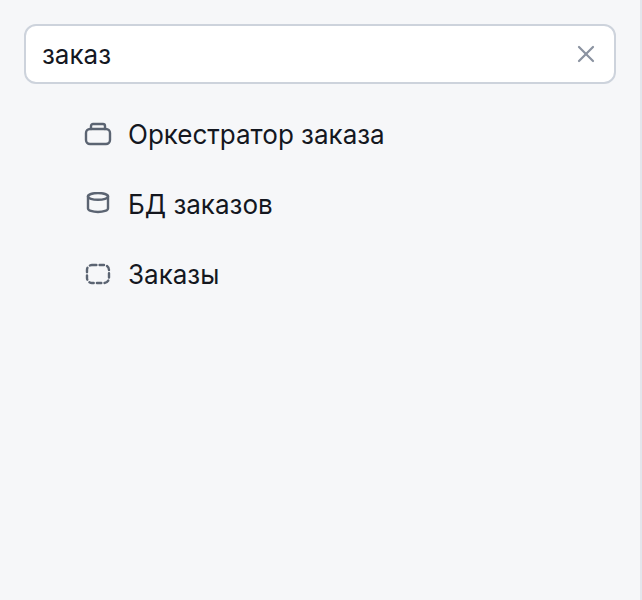
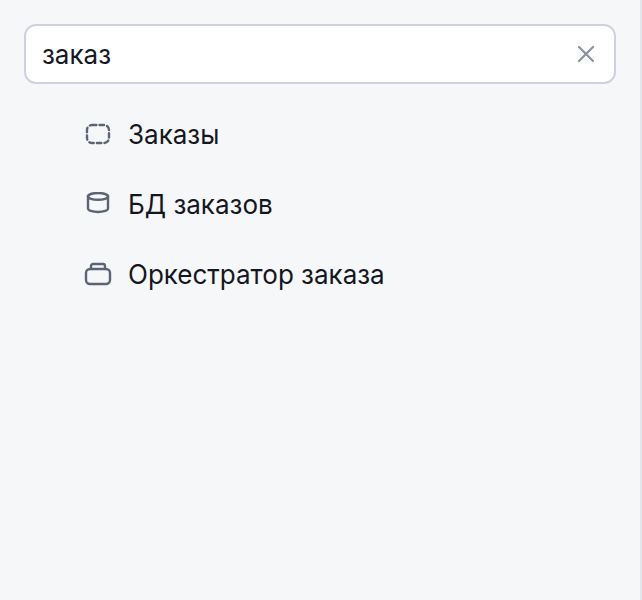
docs: перераскладка с отменой, расстановка читателя, новое задание CI и возврат заменённого процесса
Тексты и снимки под починки продукта 2026-11-24:
- admin/ci.md: задание GitLab пишет ответ ArchMap в журнал и при отказе; workflow GitHub
  срабатывает на основную ветку с любым именем; в команду curl подставляют и ветку;
- architect/layout.md, architect/deployment.md: «Переразложить уровень» срабатывает сразу и
  отменяется Ctrl+Z;
- architect/processes.md, architect/versions.md: прежний вариант заменённого процесса
  возвращают его текстом из окна «Версии»;
- user/find-project.md: читатель переставляет объекты и переразлагает схему на время
  просмотра;
- пересняты девять снимков: окно «Токен выпущен» (перенос по словам), поиск по дереву
  (новый порядок находок), схемы под читателем (кнопки отмены и перераскладки).

Changed region(s): [[0.1246, 0.42, 0.6231, 0.48], [0.1246, 0.21, 0.6231, 0.24]]

diff --git a/content/admin/ci.md b/content/admin/ci.md
@@ -31,8 +31,8 @@ order: 9
 1. В настройках CI репозитория создайте секретную переменную `ARCHMAP_TOKEN` и вставьте в неё токен.
 2. В окне **Токен выпущен** в разделе **Сигнал из CI после слияния в main** выберите вкладку своей системы CI:
     - **GitLab**: задание для файла `.gitlab-ci.yml`;
-    - **GitHub**: workflow для папки `.github/workflows`. Если основная ветка называется не `main`, исправьте её имя в строке `branches`;
-    - **curl**: команда для другой системы CI. Подставьте в неё адрес репозитория и хэш коммита.
+    - **GitHub**: workflow для папки `.github/workflows`;
+    - **curl**: команда для другой системы CI. Подставьте в неё адрес репозитория, хэш коммита и ветку.
 3. Справа над заданием нажмите **Скопировать** и добавьте задание в пайплайн репозитория.
 4. Повторите шаги 1 и 3 в каждом репозитории, код которого описан в ArchMap. Токен у всех репозиториев один.
 
@@ -46,14 +46,15 @@ archmap:
     - if: $CI_COMMIT_BRANCH == $CI_DEFAULT_BRANCH
   script:
     - >
-      curl -fsS -X POST "https://archmap.example.com/api/v1/code-changes"
+      code=$(curl -sS -o /dev/stderr -w "%{http_code}" -X POST "https://archmap.example.com/api/v1/code-changes"
       -H "Authorization: Bearer $ARCHMAP_TOKEN"
       -H "Content-Type: application/json"
-      -d "{\"repo\":\"$CI_PROJECT_URL\",\"commit\":\"$CI_COMMIT_SHA\",\"branch\":\"$CI_COMMIT_BRANCH\"}"
+      -d "{\"repo\":\"$CI_PROJECT_URL\",\"commit\":\"$CI_COMMIT_SHA\",\"branch\":\"$CI_COMMIT_BRANCH\"}")
+      && test "$code" -lt 400
 ```
 
 ::: note
-Задание не останавливает пайплайн: если ArchMap недоступен, остальные этапы пройдут как обычно. Ошибка `returned error: 401` в журнале означает, что токен отозван или истёк либо его владелец заблокирован. Тогда выпустите новый токен и замените значение переменной.
+Задание не останавливает пайплайн: если ArchMap недоступен, остальные этапы пройдут как обычно. При отказе в журнале задания виден ответ ArchMap. Ответ «Токен недействителен» означает, что токен отозван или истёк либо его владелец заблокирован. Тогда выпустите новый токен и замените значение переменной.
 :::
 
 ::: note

diff --git a/content/architect/layout.md b/content/architect/layout.md
@@ -63,13 +63,9 @@ order: 20
 Чтобы переразложить уровень, выполните следующие действия:
 
 1. Откройте уровень в редакторе схемы (см. [Открыть редактор схемы](nodes.md#editor)).
-2. В шапке нажмите **Действия со схемой** (три точки) и выберите **Переразложить уровень**. Откроется окно **Переразложить уровень «…»?**.
-3. Нажмите **Переразложить**. ArchMap заново разложит объекты уровня.
+2. В шапке нажмите **Действия со схемой** (три точки) и выберите **Переразложить уровень**. ArchMap заново разложит объекты уровня.
+3. Если прежняя расстановка была лучше, верните её. Для этого нажмите <kbd>Ctrl</kbd>+<kbd>Z</kbd>.
 
 ::: note
-После этого история отмены в редакторе очистится. Другие уровни не изменятся.
-:::
-
-::: note
-Схему на странице объекта возвращает к автоматической раскладке кнопка **Переразложить уровень** (круговая стрелка) в правом верхнем углу схемы. Она срабатывает сразу, без вопроса, и не меняет уровень в редакторе.
+На странице проекта или объекта схему перераскладывает кнопка **Переразложить уровень** (круговая стрелка) в правом верхнем углу схемы. Отменяется она так же.
 :::

diff --git a/content/architect/processes.md b/content/architect/processes.md
@@ -108,8 +108,15 @@ order: 16
 4. Нажмите **Заменить**. Шаги процесса сменятся на новые.
 
 ::: note
-Перед заменой ArchMap сохраняет версию проекта, и прежний вариант процесса остаётся в ней. Возврат к версии процессы не меняет, но прежний текст процесса из версии может достать ИИ-агент, подключённый по MCP (см. [Зафиксировать версию документации и вернуться к ней](versions.md)).
+Перед заменой ArchMap сохраняет версию проекта с комментарием «Перед заменой процесса «…» из диаграммы», и прежний вариант процесса остаётся в ней.
 :::
+
+Чтобы вернуть прежний вариант процесса, выполните следующие действия:
+
+1. На странице проекта откройте окно **Версии** (см. [Зафиксировать версию документации и вернуться к ней](versions.md)) и нажмите на версию, сохранённую перед заменой.
+2. Рядом с заголовком **Что изменилось** выберите **с текущим состоянием** и нажмите на процесс.
+3. На вкладке **Было в vN** нажмите **Скопировать**. В буфере окажется текст диаграммы прежнего варианта.
+4. Замените процесс этим текстом, как описано выше.
 
 ## Переименовать процесс {#rename}
 

diff --git a/content/user/find-project.md b/content/user/find-project.md
@@ -66,6 +66,18 @@ order: 1
 1. На странице проекта прокрутите до раздела **Процессы**.
 2. Нажмите на нужный процесс. Откроется вкладка **Процессы** с выбранным процессом (см. [Просмотреть бизнес-процесс](processes.md)).
 
+## Переставить объекты на время просмотра {#arrange}
+
+Чтобы расставить объекты на схеме под свой вопрос, выполните следующие действия:
+
+1. На включённой схеме перетащите объект в нужное место.
+2. Если нужно разложить схему заново, в правом верхнем углу схемы нажмите **Переразложить уровень** (круговая стрелка).
+3. Отмените лишнее. Для этого нажмите <kbd>Ctrl</kbd>+<kbd>Z</kbd> или **Отменить** (стрелка назад) в левом верхнем углу схемы.
+
+::: note
+Ваша расстановка видна только вам и живёт, пока схема открыта: после перехода на другую страницу схема снова стоит так, как её расставил редактор проекта. Так же переставляются объекты на странице объекта, на схеме во всё окно и на вкладке **Развёртывание**.
+:::
+
 ## Развернуть схему на всё окно {#fullscreen}
 
 Чтобы рассмотреть схему уровня на всё окно, выполните следующие действия:

diff --git a/content/architect/versions.md b/content/architect/versions.md
@@ -45,7 +45,7 @@ order: 6
 ![Окно возврата к версии](../images/versions-restore.png "Окно подтверждения возврата к версии с описанием последствий")
 
 ::: note
-История идёт только вперёд: возврат не удаляет версии, а добавляет новые. Бизнес-процессы и статус страницы возврат не меняет. Сам ArchMap сохраняет версию ещё перед удалением лишнего ИИ-агентом («Перед удалением агентом: …») и перед заменой процесса из Mermaid («Перед заменой процесса «…» из диаграммы»).
+История идёт только вперёд: возврат не удаляет версии, а добавляет новые. Бизнес-процессы и статус страницы возврат не меняет. Прежний вариант процесса возвращают его текстом из версии (см. [Заменить процесс из Mermaid](processes.md#replace)). Сам ArchMap сохраняет версию ещё перед удалением лишнего ИИ-агентом («Перед удалением агентом: …») и перед заменой процесса из Mermaid («Перед заменой процесса «…» из диаграммы»).
 :::
 
 ## Удалить версию

diff --git a/content/architect/deployment.md b/content/architect/deployment.md
@@ -83,5 +83,5 @@ order: 4
 - над схемой справа нажмите **Переразложить уровень** (круговая стрелка). Объекты встанут по авто-раскладке.
 
 ::: note
-Перетаскивание не меняет размещение: объект остаётся на своей площадке. Чтобы перенести его на другую, поставьте объект на неё заново.
+Перетаскивание не меняет размещение: объект остаётся на своей площадке. Чтобы перенести его на другую, поставьте объект на неё заново. Перетаскивание и перераскладку отменяет сочетание <kbd>Ctrl</kbd>+<kbd>Z</kbd>.
 :::
